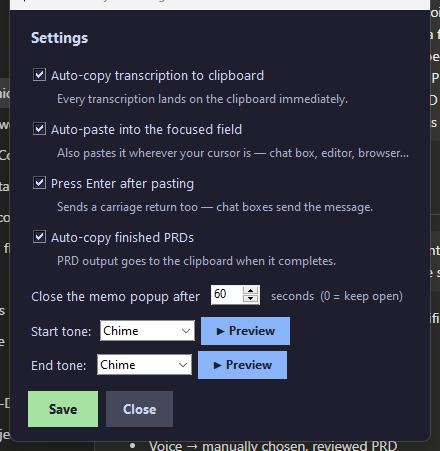
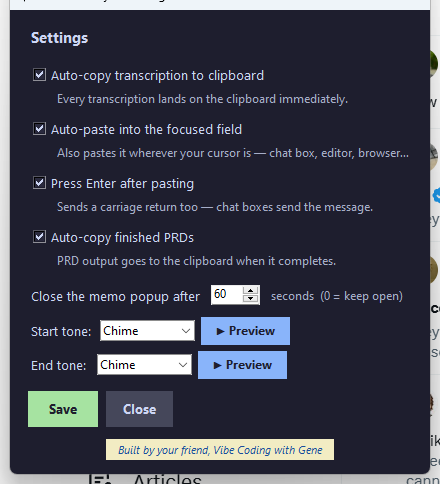
Branded credit line in Options dialog (8pt italic #1a4f9c, opens X profile)

diff --git a/voice_hotkey.py b/voice_hotkey.py
@@ -2341,6 +2341,12 @@ def main() -> None:
                   fg="#CDD6F4", bg="#45475A", activebackground="#585B70",
                   relief="flat", padx=12, pady=4, command=_close,
                   ).pack(side="left")
+        credit = tk.Label(frame, text="Built by your friend, Vibe Coding with Gene",
+                          font=("Segoe UI", 8, "italic"), fg="#1a4f9c",
+                          bg="#F2ECC3", cursor="hand2", padx=10, pady=2)
+        credit.pack(pady=(12, 0))
+        credit.bind("<Button-1>",
+                    lambda e: webbrowser.open("https://x.com/with_gene2626"))
         root.protocol("WM_DELETE_WINDOW", _close)
         root.withdraw()
         _poll()
